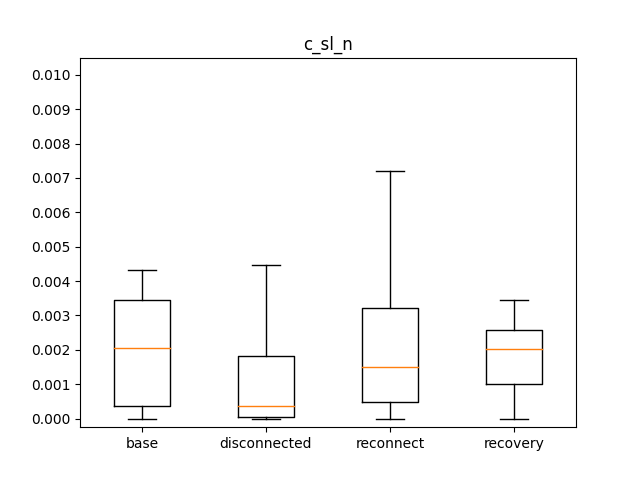
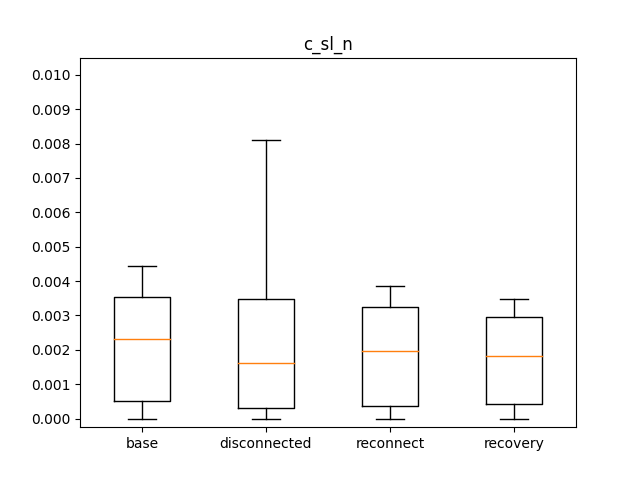
results

diff --git a/graph.py b/graph.py
@@ -15,7 +15,7 @@ import matplotlib.pyplot as plt
 from scipy.stats import ks_2samp, describe
 
 CORES = 14
-ITERATIONS = 1
+ITERATIONS = 1000
 NUMBER_OF_AGENTS = 50
 ROUNDS = 100
 ACTIVATION = 0.1
